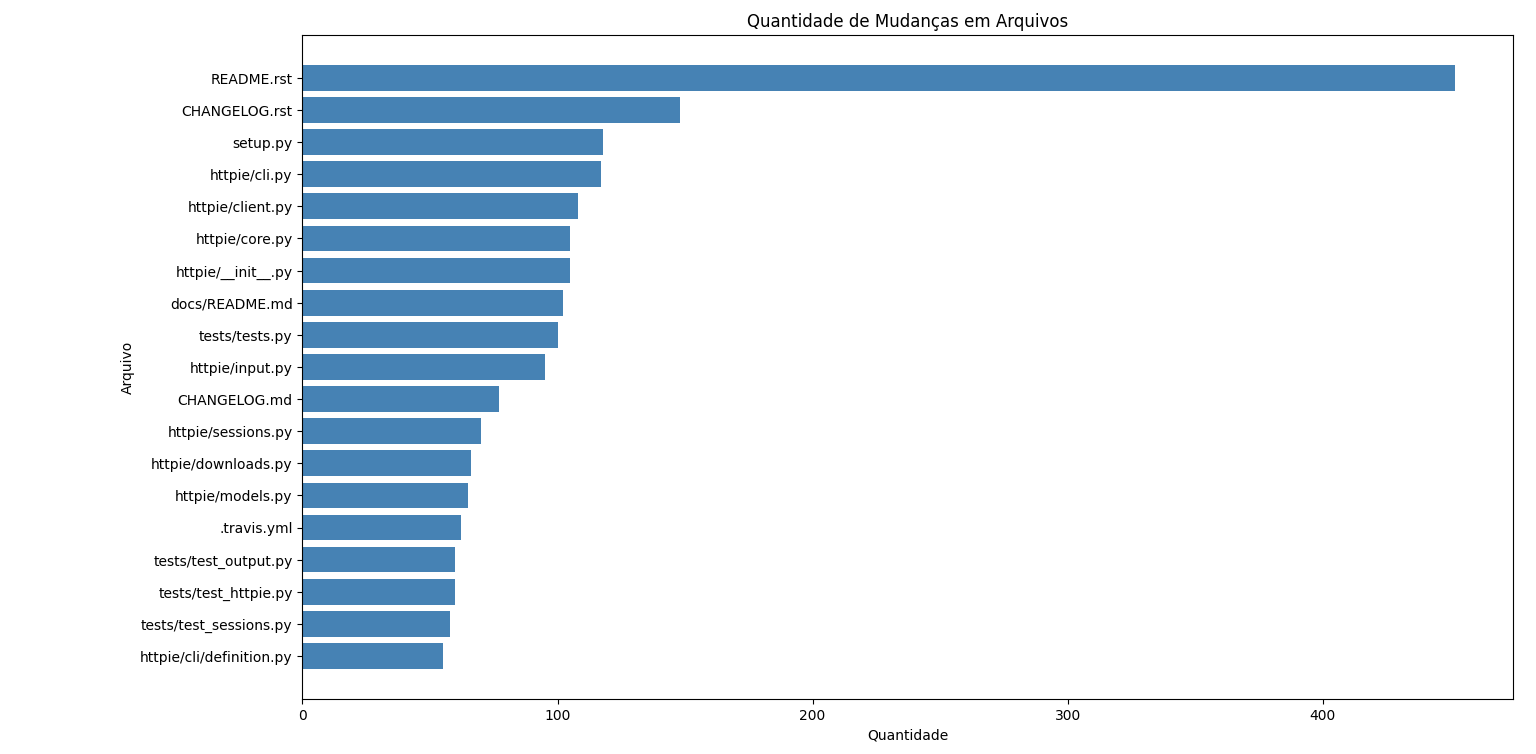
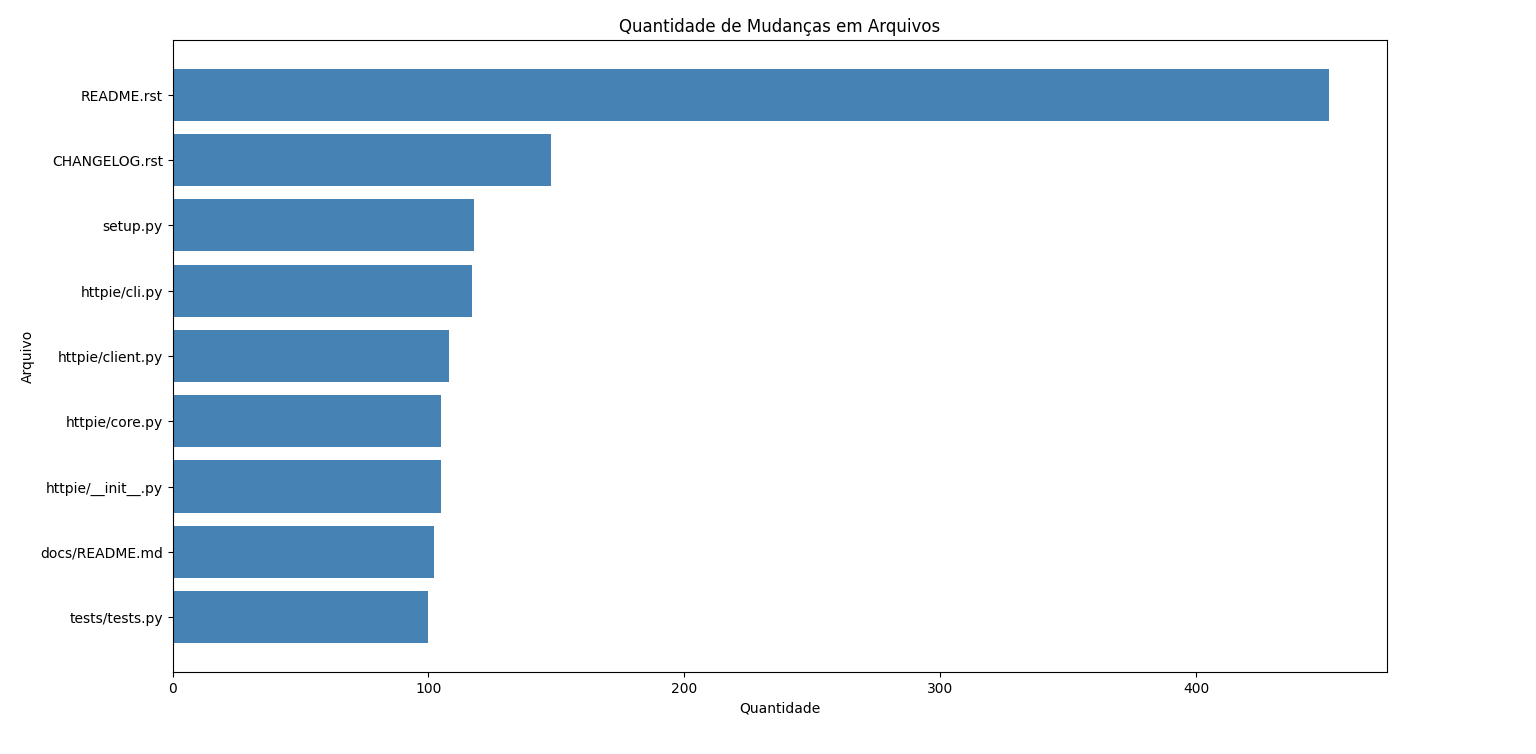
Gerando gráfico com os dados corretos

diff --git a/Analise/arquivos_mais_alterados/main.py b/Analise/arquivos_mais_alterados/main.py
@@ -20,7 +20,7 @@ def ler_dados(arquivo):
     return arquivos, quantidades
 
 # Ler os dados do arquivo
-arquivos, quantidades = ler_dados('most_churn_files.txt')
+arquivos, quantidades = ler_dados('C:/Users/guilh/OneDrive/Área de Trabalho/TELP/Complexidade Ciclomatica/Complexidade-Ciclom-tica/Info/Churn_Code/most_churn_files.txt')
 
 # Criar o gráfico
 plt.figure(figsize=(10, 8))
